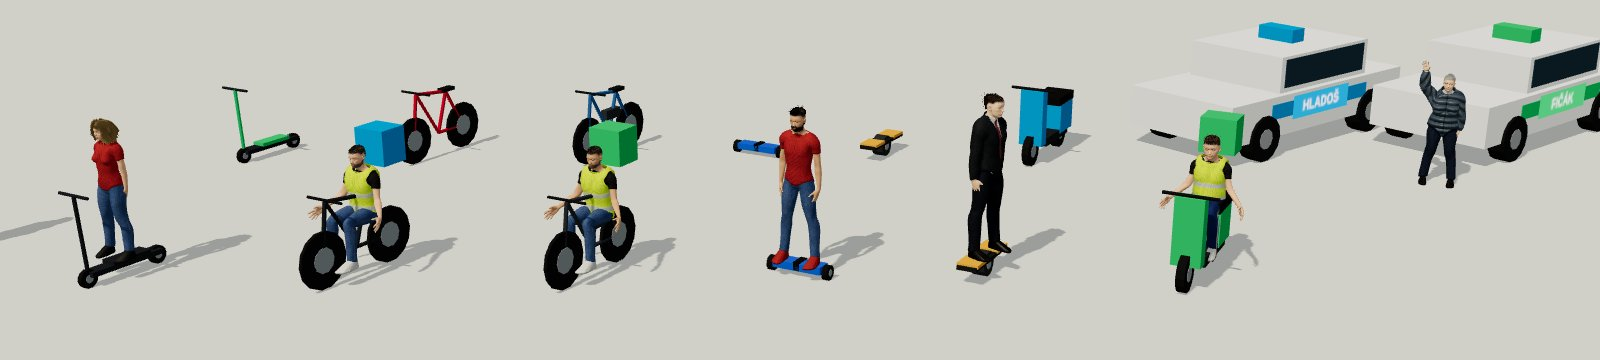
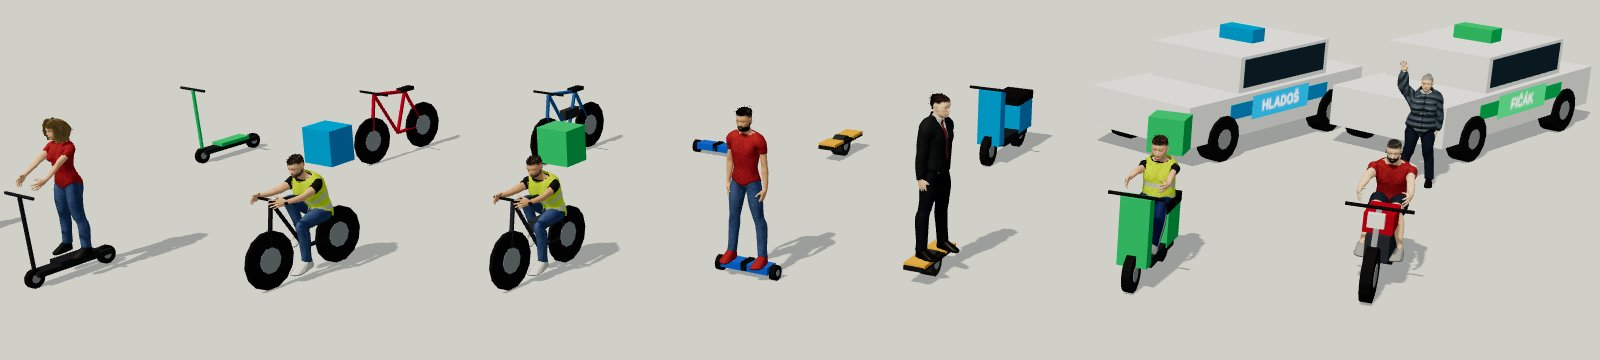
Hlásenie: zjednotené autá, taxíky, farby podľa reality, jazdci držia riadidlá (#97)
Claude-Session: https://claude.ai/code/session_01A2N5EyHUMmVuApeju3XNwR

Changed region(s): [[0.0, 0.0611, 1.0, 0.8556], [0.0938, 0.2444, 0.1562, 0.275]]

diff --git a/docs/hlasenia/2026-11-21/auta-nahlad.js b/docs/hlasenia/2026-11-21/auta-nahlad.js
@@ -1,0 +1,159 @@
+// Náhľad: zjednotený nízkopolygónový štýl áut (typy z oboch voľných balíkov), klasické taxíky
+// a náhodné farby podľa skutočného zastúpenia. Referencia pre issue #97, nie kód hry.
+import * as THREE from 'three';
+
+const POHLAD = new URLSearchParams(location.search).get('p') || '1';
+const r = new THREE.WebGLRenderer({ antialias: true, preserveDrawingBuffer: true });
+r.setPixelRatio(1); r.setSize(innerWidth, innerHeight); r.toneMapping = THREE.ACESFilmicToneMapping;
+r.shadowMap.enabled = true; r.shadowMap.type = THREE.PCFSoftShadowMap; document.body.appendChild(r.domElement);
+const sc = new THREE.Scene(); sc.background = new THREE.Color('#E9EEF1');
+sc.add(new THREE.HemisphereLight('#FFFFFF', '#AEB5A8', 1.25));
+const sun = new THREE.DirectionalLight('#FFF3DE', 2.3); sun.position.set(-8, 14, 9); sun.castShadow = true;
+sun.shadow.mapSize.set(4096, 4096); Object.assign(sun.shadow.camera, { left: -30, right: 30, top: 22, bottom: -22, far: 80 }); sc.add(sun);
+
+// --- zjednotený štýl: rovnaké koleso, rovnaké sklo, rovnaké svetlá, jeden materiál laku ---
+const matCache = new Map();
+const M = (c) => { if (!matCache.has(c)) matCache.set(c, new THREE.MeshLambertMaterial({ color: c, flatShading: true })); return matCache.get(c); };
+const SKLO = '#26343D', GUMA = '#1C1D1F', DISK = '#A7ADB3', PLAST = '#2B2E31';
+const box = (w, h, d, c, x, y, z) => { const m = new THREE.Mesh(new THREE.BoxGeometry(w, h, d), M(c)); m.position.set(x, y, z); return m; };
+
+/** Bočný profil (pole [z, y] od zadku dopredu) vysunutý na šírku w – auto ide v smere +z. */
+function profil(body, w, c) {
+  const sh = new THREE.Shape(); body.forEach(([z, y], i) => (i ? sh.lineTo(z, y) : sh.moveTo(z, y)));
+  const g = new THREE.ExtrudeGeometry(sh, { depth: w, bevelEnabled: false });
+  g.translate(0, 0, -w / 2); g.rotateY(-Math.PI / 2); // tvar x→z, hĺbka → x
+  return new THREE.Mesh(g, M(c));
+}
+function koleso(rad, sir, x, y, z) {
+  const g = new THREE.Group();
+  const k = new THREE.Mesh(new THREE.CylinderGeometry(rad, rad, sir, 14), M(GUMA)); k.rotation.z = Math.PI / 2; g.add(k);
+  const d = new THREE.Mesh(new THREE.CylinderGeometry(rad * 0.55, rad * 0.55, sir + 0.02, 10), M(DISK)); d.rotation.z = Math.PI / 2; g.add(d);
+  g.position.set(x, y, z); return g;
+}
+function napis(text, bg, fg, w, h) {
+  const cv = document.createElement('canvas'); cv.width = 256; cv.height = Math.round(256 * h / w); const c = cv.getContext('2d');
+  c.fillStyle = bg; c.fillRect(0, 0, cv.width, cv.height); c.fillStyle = fg; c.font = `bold ${Math.round(cv.height * 0.7)}px sans-serif`;
+  c.textAlign = 'center'; c.textBaseline = 'middle'; c.fillText(text, cv.width / 2, cv.height * 0.54);
+  const t = new THREE.CanvasTexture(cv); t.colorSpace = THREE.SRGBColorSpace; return new THREE.MeshLambertMaterial({ map: t });
+}
+
+// Typy: L dĺžka, W šírka, H strecha, P pás (spodok okien), kapota/kufor, skleník [zadok-spodok, zadok-hore, predok-hore, predok-spodok] v podiele dĺžky
+const TYPY = {
+  mestske:  { nazov: 'Mestské',      L: 3.6, W: 1.65, H: 1.5,  P: 0.95, kap: 0.82, kuf: 0.9,  sk: [0.03, 0.08, 0.62, 0.78], kr: 0.29 },
+  hatchback:{ nazov: 'Hatchback',    L: 4.1, W: 1.78, H: 1.47, P: 0.95, kap: 0.82, kuf: 0.92, sk: [0.03, 0.1, 0.6, 0.76],  kr: 0.31 },
+  sedan:    { nazov: 'Sedan',        L: 4.65,W: 1.8,  H: 1.44, P: 0.93, kap: 0.8,  kuf: 0.9,  sk: [0.2, 0.3, 0.62, 0.76],  kr: 0.32 },
+  kombi:    { nazov: 'Kombi',        L: 4.7, W: 1.8,  H: 1.48, P: 0.93, kap: 0.8,  kuf: 0.93, sk: [0.02, 0.05, 0.64, 0.77], kr: 0.32 },
+  suv:      { nazov: 'SUV',          L: 4.5, W: 1.86, H: 1.66, P: 1.1,  kap: 0.98, kuf: 1.08, sk: [0.03, 0.08, 0.62, 0.76], kr: 0.36 },
+  mpv:      { nazov: 'Dodávka osobná', L: 4.9, W: 1.9, H: 1.92, P: 1.08, kap: 0.98, kuf: 1.05, sk: [0.02, 0.03, 0.72, 0.84], kr: 0.33 },
+  dodavka:  { nazov: 'Dodávka',      L: 5.9, W: 2.0,  H: 2.5,  P: 1.25, kap: 1.05, kuf: 2.45, sk: [0.72, 0.72, 0.8, 0.88],  kr: 0.36, skrina: true },
+  pickup:   { nazov: 'Pickup',       L: 5.3, W: 1.9,  H: 1.82, P: 1.12, kap: 1.08, kuf: 1.08, sk: [0.36, 0.38, 0.66, 0.78], kr: 0.38, korba: true },
+  sport:    { nazov: 'Športové',     L: 4.4, W: 1.88, H: 1.22, P: 0.82, kap: 0.7,  kuf: 0.8,  sk: [0.18, 0.32, 0.56, 0.74], kr: 0.33 },
+};
+
+function auto(typ, lak, { taxi = null } = {}) {
+  const T = TYPY[typ], { L, W, H, P, kr } = T, g = new THREE.Group();
+  const z = (f) => -L / 2 + f * L, dno = 0.22;
+  // spodok karosérie (po pás)
+  const telo = [[z(0), dno], [z(0), T.kuf], [z(T.sk[0]), P], [z(T.sk[3]), P], [z(0.97), T.kap], [z(1), T.kap - 0.12], [z(1), dno]];
+  if (T.skrina) telo.splice(1, 2, [z(0), H - 0.05], [z(T.sk[0]), H - 0.05], [z(T.sk[0]), P]);
+  g.add(profil(telo, W, lak));
+  // skleník: sklo trochu užšie, strecha v laku
+  const s = T.sk, hs = T.skrina ? H - 0.12 : H - 0.06;
+  g.add(profil([[z(s[0]) + 0.04, P - 0.01], [z(s[1]) + 0.04, hs], [z(s[2]) - 0.04, hs], [z(s[3]) - 0.04, P - 0.01]], W - 0.1, SKLO));
+  g.add(profil([[z(s[1]), hs - 0.01], [z(s[1]) + 0.03, H], [z(s[2]) - 0.03, H], [z(s[2]), hs - 0.01]], W - 0.06, lak));
+  // B stĺpik
+  if (!T.skrina) g.add(box(W - 0.08, hs - P, 0.08, lak, 0, (hs + P) / 2, z((s[1] + s[2]) / 2)));
+  if (T.korba) g.add(box(W - 0.2, 0.05, z(s[0]) - z(0.03), PLAST, 0, P - 0.02, (z(0.03) + z(s[0])) / 2));
+  // svetlá, nárazníky
+  for (const x of [-1, 1]) {
+    g.add(box(0.34, 0.1, 0.04, '#F2F1E6', x * (W / 2 - 0.25), T.kap - 0.2, L / 2 + 0.01));
+    g.add(box(0.3, 0.12, 0.04, '#B3141B', x * (W / 2 - 0.22), T.kuf - 0.18, -L / 2 - 0.01));
+  }
+  g.add(box(W + 0.02, 0.14, 0.12, PLAST, 0, dno + 0.1, L / 2 - 0.04)); g.add(box(W + 0.02, 0.14, 0.12, PLAST, 0, dno + 0.1, -L / 2 + 0.04));
+  // kolesá
+  const zp = L / 2 - Math.max(0.78, L * 0.19), zz = -L / 2 + Math.max(0.72, L * 0.18);
+  for (const x of [-1, 1]) for (const zk of [zp, zz]) g.add(koleso(kr, 0.24, x * (W / 2 - 0.1), kr, zk));
+  // taxík: svetlo na streche + pruh / nálepky
+  if (taxi) {
+    const lamp = new THREE.Mesh(new THREE.BoxGeometry(0.62, 0.2, 0.24), [M(taxi.farba), M(taxi.farba), M(taxi.farba), M(taxi.farba), napis(taxi.text, taxi.farba, taxi.pismo, 0.62, 0.2), napis(taxi.text, taxi.farba, taxi.pismo, 0.62, 0.2)]);
+    lamp.position.set(0, H + 0.1, z((s[1] + s[2]) / 2)); g.add(lamp);
+    if (taxi.pruh) for (const x of [-1, 1]) {
+      const p = new THREE.Mesh(new THREE.PlaneGeometry(L * 0.55, 0.16), napis(taxi.pruhText || '', taxi.pruh, '#FFFFFF', L * 0.55, 0.16));
+      p.position.set(x * (W / 2 + 0.006), P - 0.22, 0.1); p.rotation.y = x * Math.PI / 2; g.add(p);
+    }
+  }
+  g.traverse((o) => { if (o.isMesh) { o.castShadow = true; o.receiveShadow = true; } });
+  return g;
+}
+
+// --- farby podľa reality (Európa 2025 + staršie autá v uliciach majú viac striebornej) ---
+export const FARBY = [
+  { meno: 'Sivá', podiel: 23, odtiene: ['#6B7075', '#4D5257', '#8A8F93'] },
+  { meno: 'Biela', podiel: 22, odtiene: ['#EDEFEF', '#E2E4E1'] },
+  { meno: 'Čierna', podiel: 20, odtiene: ['#17191C', '#22252A'] },
+  { meno: 'Strieborná', podiel: 12, odtiene: ['#B7BCC1', '#A4AAB0'] },
+  { meno: 'Modrá', podiel: 10, odtiene: ['#1F3B6E', '#35609A', '#14233F'] },
+  { meno: 'Červená', podiel: 7, odtiene: ['#A11B20', '#7A1A22'] },
+  { meno: 'Zelená', podiel: 2, odtiene: ['#2F5640', '#5E7A4E'] },
+  { meno: 'Hnedá / béžová', podiel: 2, odtiene: ['#6B5542', '#B8A685'] },
+  { meno: 'Žltá / oranžová', podiel: 1, odtiene: ['#E0A21B', '#D9631E'] },
+  { meno: 'Iná (bordová, fialová)', podiel: 1, odtiene: ['#5A1B2C', '#4B3762'] },
+];
+// zastúpenie typov v doprave (ako v tabuľke #97)
+const VAHY_TYPOV = { hatchback: 26, kombi: 18, suv: 20, sedan: 13, mestske: 9, mpv: 7, dodavka: 4, pickup: 1, sport: 1 };
+let semienko = 20261121; const rnd = () => ((semienko = (semienko * 1664525 + 1013904223) >>> 0) / 4294967296);
+const vazeny = (pary) => { const sum = pary.reduce((a, [, w]) => a + w, 0); let x = rnd() * sum; for (const [k, w] of pary) if ((x -= w) < 0) return k; return pary[0][0]; };
+const nahodnaFarba = (typ) => {
+  if (typ === 'dodavka' && rnd() < 0.6) return '#EDEFEF'; // dodávky sú väčšinou biele
+  const f = vazeny(FARBY.map((f) => [f, f.podiel])); return f.odtiene[Math.floor(rnd() * f.odtiene.length)];
+};
+
+// --- scéna ---
+const zem = new THREE.Mesh(new THREE.PlaneGeometry(200, 120), M('#CFD3CC')); zem.rotation.x = -Math.PI / 2; zem.receiveShadow = true; sc.add(zem);
+const kam = new THREE.PerspectiveCamera(30, innerWidth / innerHeight, 0.5, 300);
+const TAXI = {
+  klasik1: { farba: '#F5C400', pismo: '#111', text: 'TAXI' },
+  klasik2: { farba: '#F5C400', pismo: '#111', text: 'TAXI', pruh: '#F5C400', pruhText: '' },
+  klasik3: { farba: '#FFFFFF', pismo: '#C01818', text: 'TAXI' },
+  hlados: { farba: '#009DE0', pismo: '#FFF', text: 'HLADOŠ', pruh: '#009DE0', pruhText: 'HLADOŠ' },
+  ficak: { farba: '#2DBE6C', pismo: '#FFF', text: 'FIČÁK', pruh: '#2DBE6C', pruhText: 'FIČÁK' },
+};
+function stitok(text, x, z) {
+  const m = new THREE.Mesh(new THREE.PlaneGeometry(3.6, 0.6), napis(text, '#CFD3CC', '#2B2F33', 3.6, 0.6));
+  m.rotation.x = -Math.PI / 2; m.position.set(x, 0.01, z); sc.add(m);
+}
+
+if (POHLAD === '1') {
+  // katalóg typov (rad vzadu) + taxíky (rad vpredu)
+  const typy = Object.keys(TYPY), lak = ['#35609A', '#EDEFEF', '#6B7075', '#B7BCC1', '#A11B20', '#17191C', '#EDEFEF', '#4D5257', '#E0A21B'];
+  typy.forEach((t, i) => { const a = auto(t, lak[i]); a.position.set(-19 + i * 4.75, 0, -4); a.rotation.y = -0.55; sc.add(a); stitok(TYPY[t].nazov, -19 + i * 4.75, -1.0); });
+  const tx = [['sedan', '#EDEFEF', 'klasik1', 'Taxi – sedan'], ['kombi', '#17191C', 'klasik1', 'Taxi – kombi'], ['kombi', '#B7BCC1', 'klasik3', 'Taxi – kombi'], ['mpv', '#17191C', 'klasik1', 'Taxi – van'],
+    ['sedan', '#F5C400', 'klasik2', 'Taxi – žltý'], ['hatchback', '#EDEFEF', 'hlados', 'Hladoš taxi'], ['kombi', '#EDEFEF', 'ficak', 'Fičák taxi']];
+  tx.forEach(([t, l, k, n], i) => { const a = auto(t, l, { taxi: TAXI[k] }); a.position.set(-15 + i * 5, 0, 3.6); a.rotation.y = -0.55; sc.add(a); stitok(n, -15 + i * 5, 6.6); });
+  kam.position.set(0, 21, 47); kam.lookAt(0, 0, 0.8);
+} else {
+  // ulica: dva pruhy parkujúcich áut s náhodným typom a farbou
+  const cesta = new THREE.Mesh(new THREE.PlaneGeometry(200, 9), M('#5B5F63')); cesta.rotation.x = -Math.PI / 2; cesta.position.y = 0.005; cesta.receiveShadow = true; sc.add(cesta);
+  for (let x = -60; x < 60; x += 4) { const c = box(2, 0.01, 0.15, '#E8E8E8', x, 0.012, 0); c.castShadow = false; sc.add(c); }
+  const pocet = {}; let n = 0;
+  for (const [zr, rot] of [[-3.1, Math.PI / 2], [3.1, -Math.PI / 2]]) {
+    let x = -52;
+    while (x < 52) {
+      const t = rnd() < 0.03 ? 'sedan' : vazeny(Object.entries(VAHY_TYPOV));
+      const jeTaxi = rnd() < 0.03;
+      const lak = nahodnaFarba(t);
+      const a = auto(t, lak, jeTaxi ? { taxi: TAXI.klasik1 } : {});
+      const L = TYPY[t].L; x += L / 2;
+      a.position.set(x, 0, zr); a.rotation.y = rot; sc.add(a); x += L / 2 + 0.7 + rnd() * 0.8;
+      const fm = FARBY.find((f) => f.odtiene.includes(lak))?.meno || 'Biela'; pocet[fm] = (pocet[fm] || 0) + 1; n++;
+    }
+  }
+  console.log('pocet', n, JSON.stringify(pocet));
+  kam.position.set(-4, 30, 40); kam.lookAt(2, 0, 0);
+  // legenda
+  const lg = document.createElement('div');
+  lg.style.cssText = 'position:fixed;left:18px;top:16px;background:rgba(255,255,255,.92);padding:12px 16px;border-radius:10px;font:14px/1.5 system-ui,sans-serif;color:#222';
+  lg.innerHTML = '<b>Farby áut (podiel v hre)</b><br>' + FARBY.map((f) => `<span style="display:inline-block;width:12px;height:12px;border-radius:2px;background:${f.odtiene[0]};border:1px solid #999;margin-right:6px;vertical-align:-1px"></span>${f.meno} – ${f.podiel} %`).join('<br>');
+  document.body.appendChild(lg);
+}
+r.render(sc, kam); document.body.dataset.hotovo = '1';

diff --git a/docs/hlasenia/2026-11-21/vozidla-mikromobilita-postavy-z-hry.js b/docs/hlasenia/2026-11-21/vozidla-mikromobilita-postavy-z-hry.js
@@ -77,6 +77,15 @@ function skuter(farba) {
   g.add(tyc(V(-0.32, 1.12, 0.6), V(0.32, 1.12, 0.6), 0.02, '#222'));
   return g;
 }
+function motorka(farba = '#B3261E') {
+  const g = new THREE.Group();
+  g.add(koleso(0.31, 0.12, 0, 0.31, 0.72)); g.add(koleso(0.31, 0.14, 0, 0.31, -0.68));
+  g.add(box(0.26, 0.3, 0.75, '#3A3F46', 0, 0.5, 0)); g.add(box(0.32, 0.22, 0.5, farba, 0, 0.82, 0.22));
+  g.add(box(0.28, 0.1, 0.6, '#1E1E1E', 0, 0.8, -0.32)); g.add(box(0.2, 0.12, 0.5, farba, 0, 0.78, -0.72));
+  g.add(tyc(V(0, 0.31, 0.72), V(0, 1.0, 0.5), 0.035, '#9AA0A6'));
+  g.add(tyc(V(-0.36, 1.02, 0.5), V(0.36, 1.02, 0.5), 0.02, '#222')); g.add(box(0.18, 0.16, 0.08, '#E8E8E8', 0, 0.92, 0.66));
+  return g;
+}
 function taxi(farba, nazov) {
   const g = new THREE.Group();
   g.add(box(1.8, 0.6, 4.3, '#ECEFF1', 0, 0.62, 0)); g.add(box(1.6, 0.55, 2.2, '#ECEFF1', 0, 1.18, -0.2));
@@ -119,6 +128,28 @@ async function dodo(oblecenie, poza, cas, nadZemou, rodic, x = 0, z = 0, ry = 0)
   g.userData.animacie.hraj(poza, 0); g.userData.mixer.update(cas);
   osad(g, nadZemou, rodic, x, z, ry); return g;
 }
+// jednoduché IK (CCD): ruky na riadidlá, nohy na pedále/stupačky; trup sa predkloní
+const _a = new THREE.Vector3(), _b = new THREE.Vector3(), _c = new THREE.Vector3(), _q = new THREE.Quaternion(), _qw = new THREE.Quaternion(), _qp = new THREE.Quaternion();
+function kosti(obj) { const k = {}; obj.traverse((o) => { if (o.isBone && !k[o.name]) k[o.name] = o; }); return k; }
+function ik(retaz, ciel, iter = 16) {
+  const koniec = retaz[retaz.length - 1];
+  for (let n = 0; n < iter; n++) for (let i = retaz.length - 2; i >= 0; i--) {
+    const b = retaz[i]; b.updateMatrixWorld(true);
+    b.getWorldPosition(_a); koniec.getWorldPosition(_b);
+    _b.sub(_a).normalize(); _c.copy(ciel).sub(_a).normalize();
+    _q.setFromUnitVectors(_b, _c); b.getWorldQuaternion(_qw); b.parent.getWorldQuaternion(_qp);
+    b.quaternion.copy(_qp.invert().multiply(_q.multiply(_qw))); b.updateMatrixWorld(true);
+  }
+}
+function drz(obj, voz, { ruky, nohy = null, predklon = 0 }) {
+  const k = kosti(obj); sc.updateMatrixWorld(true);
+  if (predklon) { k.spine_01.rotateX(predklon * 0.5); k.spine_02.rotateX(predklon * 0.5); k.neck_01.rotateX(-predklon * 0.6); }
+  for (const s of ['l', 'r']) {
+    const x = s === 'l' ? 1 : -1;
+    ik([k['upperarm_' + s], k['lowerarm_' + s], k['hand_' + s]], voz.localToWorld(V(ruky[0] * x, ruky[1], ruky[2])));
+    if (nohy) { const f = nohy[s]; ik([k['thigh_' + s], k['calf_' + s], k['foot_' + s]], voz.localToWorld(V(f[0] * x, f[1], f[2]))); }
+  }
+}
 (async () => {
   const data = await nacitajNpcData();
   const k1 = pridaj(kolobezka('#2A2E33'), -9, 2);
@@ -126,20 +157,28 @@ async function dodo(oblecenie, poza, cas, nadZemou, rodic, x = 0, z = 0, ry = 0)
   const b2 = pridaj(bicykel('#3A3F46', true), -3.6, 2); b2.add(box(0.42, 0.42, 0.36, FICAK, 0, 1.45, -0.5));
   const h1 = pridaj(hoverboard(), -1.2, 2);
   const o1 = pridaj(onewheel(), 0.9, 2);
+  const m1 = pridaj(motorka(), 6.0, 2.2);
   const s1 = pridaj(skuter(FICAK), 3.4, 2); s1.add(box(0.42, 0.42, 0.36, FICAK, 0, 1.55, -0.62));
-  await Promise.all([
-    npc(data, 'studentka', 3, 'stoj', 0.5, 0.24, k1),
-    npc(data, 'kurier', 1, 'sedenie', 0.6, 0.18, b1, 0, -0.12),
-    npc(data, 'kurier', 7, 'sedenie', 0.6, 0.18, b2, 0, -0.12),
+  const [j1, j2, j3, , , j6, , , j9] = await Promise.all([
+    npc(data, 'studentka', 3, 'stoj', 0.5, 0.24, k1, 0, -0.12),
+    npc(data, 'kurier', 1, 'sedenie', 0.6, 0.18, b1, 0, -0.2),
+    npc(data, 'kurier', 7, 'sedenie', 0.6, 0.18, b2, 0, -0.2),
     npc(data, 'student', 5, 'stoj', 0.5, 0.17, h1),
     npc(data, 'korporat', 2, 'stoj', 0.5, 0.27, o1, 0, 0, Math.PI / 2.3),
-    dodo('kurier', 'sedenie', 0.6, 0.3, s1, 0, -0.2),
-    npc(data, 'dochodkyna', 4, 'mavanie', 0.6, 0, sc, 7.6, -1.6, -0.4),
+    dodo('kurier', 'sedenie', 0.6, 0.3, s1, 0, -0.28),
+    npc(data, 'dochodkyna', 4, 'mavanie', 0.6, 0, sc, 7.9, -1.6, -0.4),
     npc(data, 'dochodca', 6, 'stoj', 0.5, 0, sc, -11.5, 1.2, 0.5),
+    npc(data, 'turista', 3, 'sedenie', 0.6, 0.3, m1, 0, -0.38),
   ]);
+  const pedale = { l: [0.11, 0.2, 0.08], r: [0.11, 0.5, -0.08] };
+  drz(j1.koren, k1, { ruky: [0.2, 1.1, 0.52], predklon: 0.1 });
+  drz(j2.koren, b1, { ruky: [0.22, 1.02, 0.42], nohy: pedale, predklon: 0.45 });
+  drz(j3.koren, b2, { ruky: [0.22, 1.02, 0.42], nohy: pedale, predklon: 0.45 });
+  drz(j6, s1, { ruky: [0.28, 1.12, 0.6], nohy: { l: [0.13, 0.42, 0.25], r: [0.13, 0.42, 0.25] }, predklon: 0.1 });
+  drz(j9.koren, m1, { ruky: [0.32, 1.02, 0.5], nohy: { l: [0.2, 0.4, 0.05], r: [0.2, 0.4, 0.05] }, predklon: 0.35 });
   r.render(sc, kam); document.body.dataset.hotovo = '1';
 })().catch((e) => { console.error('CHYBA', e?.stack || e); document.body.dataset.hotovo = '1'; });
 
 const kam = new THREE.PerspectiveCamera(33, innerWidth / innerHeight, 0.1, 200);
-kam.position.set(-1.2, 6.2, 18.5); kam.lookAt(-1.2, 0.7, -0.8);
+kam.position.set(-0.6, 6.2, 18.5); kam.lookAt(-0.6, 0.7, -0.8);
 r.render(sc, kam);
